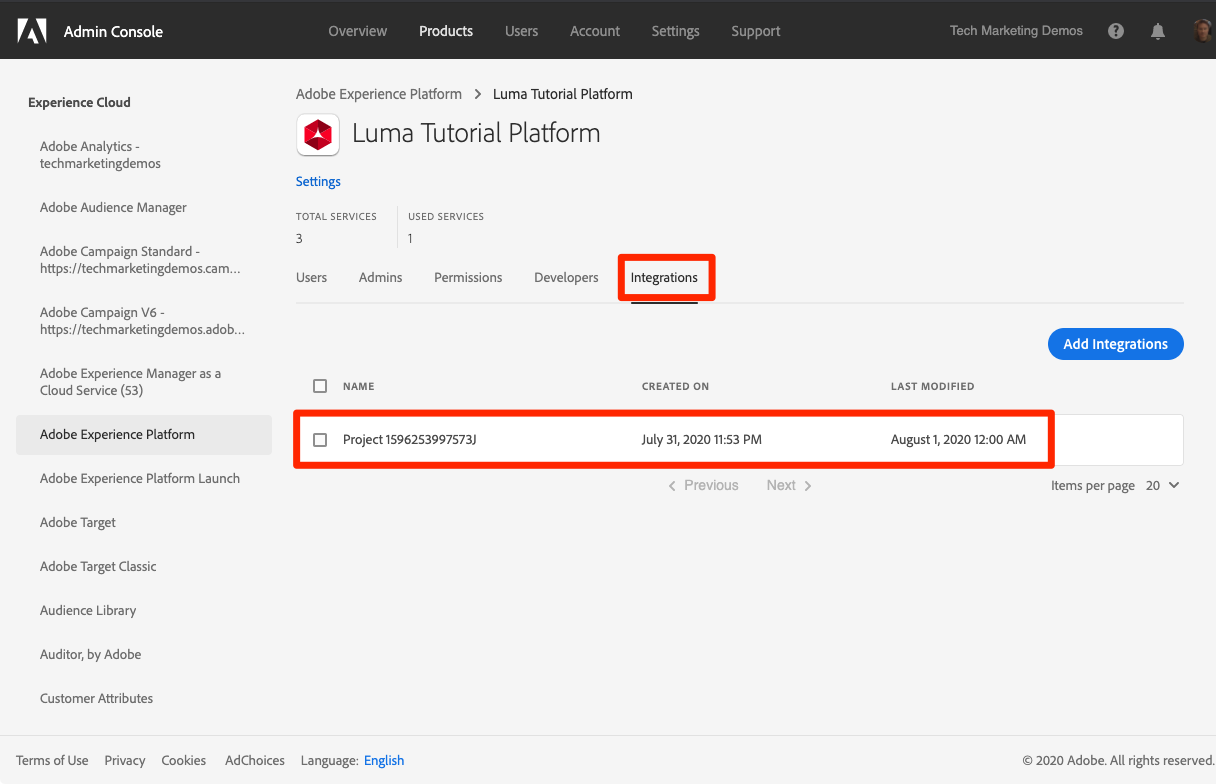
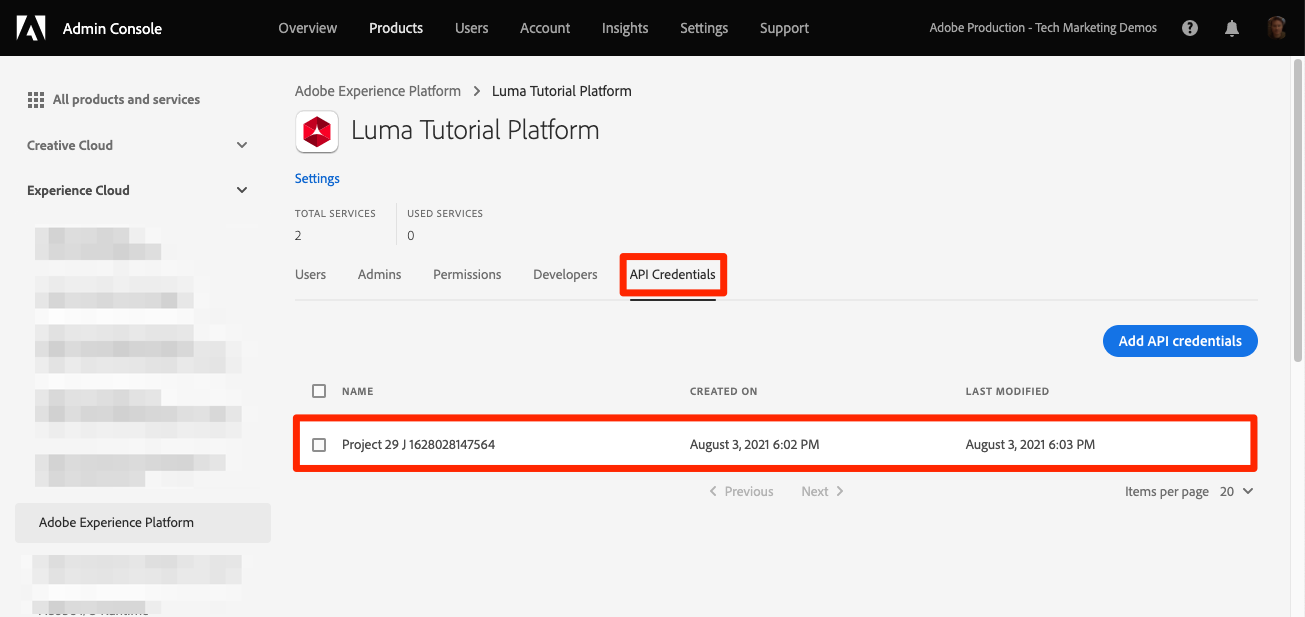
Updates

diff --git a/help/tutorial-data-architect-and-engineer/overview.md b/help/tutorial-data-architect-and-engineer/overview.md
@@ -27,7 +27,7 @@ Topics include:
 * Setting up a Developer Console project and using the Platform API
 * Data management, including creating schemas, datasets, identities, merge policies, and data governance
 * Data ingestion using batch and streaming modes
-* Capturing web data with Adobe Experience Platform Launch and the Web SDK
+* Capturing web data with Adobe Experience Platform Web SDK
 * Combining data sources into Real-time Customer Profiles via identity stitching
 * Using Query Service to validate data and extract data
 * Building segments
@@ -39,14 +39,14 @@ Adobe Experience Platform is a technical platform designed to help you achieve m
 ## Pre-requisites
 
 * You have completed the [Introduction to Adobe Experience Platform course](https://experienceleague.adobe.com/?recommended=ExperiencePlatform-U-1-2020.1) on Experience League and are familiar with Platform capabilities
-* You have access to an account provisioned with Adobe Experience Platform and Adobe Experience Platform Launch.  
+* You have access to an account provisioned with Adobe Experience Platform and Adobe Experience Platform Data Collection (formerly Launch).  
 * You are a System Administrator of that account or can have one complete several tasks in the [Configure Permissions](configure-permissions.md) lesson.
 
 ## Using this tutorial
 
 This tutorial combines tasks for both Data Engineers and Data Architects. Since it's an introductory-level tutorial, you should be able to complete the tasks for both roles. In each lesson, I call out the primary audience&mdash;Data Architects, Data Engineers, or both roles. Because many of the lessons build on what was implemented in earlier lessons, you should move through the lessons in order. I will call out which lessons can be skipped. If you want to, you could also tag team the tutorial with a colleague in the other role.
 
-Try to stick to the names assigned to various elements in the tutorial, as they are constantly referred to by these names. However, there are a few high-level containers that you may want to customize the names in case there are multiple people at your organization taking this tutorial. For example, you may want to name the Product Profile "Luma Tutorial Platform - Fred Bean" instead of just "Luma Tutorial Platform."
+As you create various Platform elements during this tutorial, try to stick to the names I recommend as much as possible. However, there are a few high-level element names that you may want to customize in case there are multiple people at your organization taking this tutorial simultaneously. For example, you may want to name the Platform sandbox "Luma Tutorial Platform - Fred Bean" instead of just "Luma Tutorial Platform."
 
 If you get stuck, try re-reading the instructions first, and then use the ![Log an issue](https://experienceleague.adobe.com/assets/img/feedback.svg) link on the sidebar of each page to contact me. 
 
@@ -54,11 +54,11 @@ If you get stuck, try re-reading the instructions first, and then use the ![Log 
 
 ### Sandbox environments
 
-In the tutorial, you will create a sandbox environment and use it to complete the exercises. The sandbox environment makes it safe for you to complete the exercises and experiment without being concerned about compromising your production Experience Platform environment.
+In the tutorial, you will create a sandbox environment and use it to complete the exercises. The sandbox environment makes it safe for you to complete the exercises and experiment without being concerned about compromising your production data.
 
 ### API
 
-Platform is built API-first. While interface workflows exist for all major Platform tasks and will be used in most exercises, this tutorial contains some API-oriented exercises. I will guide you through the basic project setup in the Adobe Developer Console and provide you with [!DNL Postman] environments and collections to get started. After completing the tutorial, you may find it valuable to be familiar with the Platform API and use it in your own deployment.
+Platform is built API-first. While interface workflows exist for all major Platform workflows and will be used primarily, the tutorial contains some API-oriented exercises. I will guide you through the basic project setup in the Adobe Developer Console and provide you with [!DNL Postman] environments and collections to get started with the Platform API. After completing the tutorial, you may find it valuable to be familiar with the Platform API and use it in your own deployment.
 
 ### Third-party technologies
 

diff --git a/help/tutorial-data-architect-and-engineer/configure-permissions.md b/help/tutorial-data-architect-and-engineer/configure-permissions.md
@@ -55,12 +55,12 @@ To create the product profile:
 1. Select **[!UICONTROL Adobe Experience Platform]** on the left navigation (you may need to expand the **[!UICONTROL Experience Cloud]** section)
 1. You may have several profiles in your Experience Platform instance already. Select the **[!UICONTROL New Profile]** button to add another
     ![Select Add New Profile](assets/adminconsole-newProfile.png)
-1. Name the profile `Luma Tutorial Platform` (add the tutorial taker's name to the end, if multiple people from your company are taking this tutorial) and select the **[!UICONTROL Next]** button
+1. Name the profile `Luma Tutorial Platform` (add the tutorial participant's name to the end, if multiple people from your company are taking this tutorial) and select the **[!UICONTROL Next]** button
     ![Name the profile Luma Tutorial Platform](assets/adminconsole-nameProfile.png)
 1. Depending on the details of your product license, you may or may not see this second **[!UICONTROL Services]** screen. We will not be using any of these services in this tutorial, so uncheck **[!UICONTROL Enable all services]** to *remove* all services and select **[!UICONTROL Save]**.
     ![Disable services](assets/adminconsole-createProfile-services.png)
 
-Now, add the tutorial participant as an admin of the newly created product profile. If _you_ are the tutorial participant, skip ahead to the "Configure Experience Platform product profile" heading:
+Now, add the tutorial participant as an admin of the newly created product profile. If _you_ are the tutorial participant, skip ahead to [Configure Experience Platform product profile](#configure-the-launch-product-profile):
 
 1. Select the `Luma Tutorial Platform` product profile:
    
@@ -122,7 +122,7 @@ In this exercise, you or a System Administrator at your company will create a pr
 To create the product profile:
 
 1. In the [!DNL Adobe Admin Console] go to the Adobe Experience Platform Launch product
-1. Add a new profile named `Luma Tutorial Data Collection` (add the tutorial taker's name to the end, if multiple people from your company are taking this tutorial)
+1. Add a new profile named `Luma Tutorial Data Collection` (add the tutorial participant's name to the end, if multiple people from your company are taking this tutorial)
 1. Turn off the **[!UICONTROL Properties]** > **[!UICONTROL Auto-include]** setting
 1. Don't assign any properties or permissions at this point
 1. Add the tutorial participant as an admin of this profile
@@ -140,15 +140,15 @@ Now you will add the individual permission items to the profile:
 
 1. In the [Adobe Admin Console](https://adminconsole.adobe.com), go to **[!UICONTROL Products]** > **[!UICONTROL Adobe Experience Platform Launch]**
 1. Open the `Luma Tutorial Data Collection` profile
-    ![Open Products > Adobe Experience Platform Launch >Luma Tutorial Data Collection](assets/adminconsole-launch-openProfile.png)
+    ![Open Products > Adobe Experience Platform Launch > Luma Tutorial Data Collection](assets/adminconsole-launch-openProfile.png)
 1. Go to the **[!UICONTROL Permissions]** tab
 1. Open **[!UICONTROL Platforms]**
-1. Select **[!UICONTROL Add all]** so you can create both [!UICONTROL Web] and [!UICONTROL Mobile] properties. (Event forwarding customers have an [!UICONTROL Edge] option, too).
-1. **[!UICONTROL Save]** your changes
+1. Make sure that all of the available platforms are selected (you may see different options based on your license)
+1. **[!UICONTROL Save]** any changes
     ![Add platforms](assets/adminconsole-launch-addPlatforms.png)
 1. Open **[!UICONTROL Properties]**
 1. Make sure the **[!UICONTROL Auto-Include]** toggle is Off so that you don't have access to any properties (we will add one later)
-1. **[!UICONTROL Save]**
+1. **[!UICONTROL Save]** any changes
     ![Remove properties](assets/adminconsole-launch-removeProperties.png)
 1. Open **[!UICONTROL Property Rights]**
 1. Select **[!UICONTROL Add all]** to add all of the property permissions
@@ -169,7 +169,7 @@ Now add yourself as a user to the Launch profile:
     ![Select Add User](assets/adminconsole-launch-addUser.png)
 1. Complete the workflow to add yourself as a user to the product profile
 
-You will not need to add yourself as a Developer for Launch.
+You do not need to add yourself as a Developer for Launch.
 
 ## Additional Resources
 

diff --git a/help/tutorial-data-architect-and-engineer/set-up-developer-console-and-postman.md b/help/tutorial-data-architect-and-engineer/set-up-developer-console-and-postman.md
@@ -23,10 +23,12 @@ Platform is built API-first. While interface options also exist for all major ta
 
 ## Permissions required
 
-In the [Configure Permissions](configure-permissions.md) lesson, you set up all the access controls required to complete this lesson, specifically:
+In the [Configure Permissions](configure-permissions.md) lesson, you set up all the access controls required to complete this lesson.
 
+<!--
 * Permission item Sandboxes > `Luma Tutorial`
 * Developer-role access to the `Luma Tutorial Platform` product profile
+-->
 
 ## Set up Adobe Developer Console
  
@@ -75,7 +77,7 @@ In the [Configure Permissions](configure-permissions.md) lesson, you set up all 
 
     >[!NOTE]
     >
-    >System Administrators of your organization would be able to see the project as an "Integration" in the product profile in the Admin Console
+    >System Administrators of your organization can see the project as an "API Credential" in the product profile in the Admin Console
     >
     >![Adobe Developer Console Project API Config](assets/adobeio-io-integrationInAdminConsole.png)
 
@@ -115,7 +117,7 @@ Now it's time to add the PRIVATE_KEY value to the Postman environment
 1. Extract the downloaded `config.zip` file which was generated in the previous exercise while creating the Developer Console Project. This zip contains two files: 
    * `private.key`
    * `certificate_pub.crt`
-1. Open the `private.key` file in a text editor and copy all the content available.
+1. Open the `private.key` file in a text editor and copy the contents.
 1. In Postman, on the **Manage Environments** > **Edit** modal which is still open from the last exercise, paste copied values in front of **PRIVATE_KEY** in the **Initial Value** and **Current Value** columns.
 1. Select the **Update** button to save your PRIVATE_KEY and the updated environment name.
     ![Private Key pasted into Postman](assets/postman-privateKey.png)
@@ -128,7 +130,7 @@ The first collection works with the Adobe Identity Management Service (IMS) APIs
 
 >[!WARNING]
 >
->As noted in the [Adobe I/O Access Token Generation Postman collection README](https://github.com/adobe/experience-platform-postman-samples/tree/master/apis/ims), the denoted generation methods are suitable for non-production use. Local Signing loads a JavaScript library from a 3rd-party host, and Remote signing sends the private key to an Adobe owned and operated web service. While Adobe does not store this private key, production keys should never be shared with anyone.  
+>As noted in the [Adobe Identity Management Service APIs README](https://github.com/adobe/experience-platform-postman-samples/tree/master/apis/ims), the denoted generation methods are suitable for non-production use. Local Signing loads a JavaScript library from a 3rd-party host, and Remote signing sends the private key to an Adobe owned and operated web service. While Adobe does not store this private key, production keys should never be shared with anyone.  
 
 To generate the tokens:
 

diff --git a/help/tutorial-data-architect-and-engineer/create-a-sandbox.md b/help/tutorial-data-architect-and-engineer/create-a-sandbox.md
@@ -15,7 +15,7 @@ exl-id: a04afada-52a1-4812-8fa2-14be72e68614
 
 In this lesson, you will create a development environment sandbox that you will use for the rest of the tutorial.
 
-Sandboxes provide isolated environments where you can try out functionality without field groupg resources and data with your Production environment.
+Sandboxes provide isolated environments where you can try out functionality without mixing resources and data with your Production environment.
 
 **Data Architects** and **Data Engineers** will need to create sandboxes outside of this tutorial.
 
@@ -24,12 +24,14 @@ Before you begin the exercises, watch this short video to learn more about sandb
 
 ## Permissions required
 
-In the [Configure Permissions](configure-permissions.md) lesson, you set up all the access controls required to complete this lesson, specifically:
+In the [Configure Permissions](configure-permissions.md) lesson, you set up all the access controls required to complete this lesson.
 
+<!--
 * Permission items **[!UICONTROL Sandbox Administration]** > **[!UICONTROL View Sandboxes]** and **[!UICONTROL Manage Sandboxes]**
 * Permission item **[!UICONTROL Sandboxes]** > **[!UICONTROL Prod]**
 * User-role access to the `Luma Tutorial Platform` product profile
 * Admin-level access to the `Luma Tutorial Platform` product profile
+-->
 
 ## Create a Sandbox
 
@@ -40,8 +42,9 @@ Let's create a sandbox:
 1. Select **[!UICONTROL Create sandbox]** on the top right
    ![Select Create sandbox](assets/sandbox-createSandbox.png)
 
-1. Name your sandbox `luma-tutorial` 
-1. Title your tutorial `Luma Tutorial`
+1. Select **[!UICONTROL Development]** as the **[!UICONTROL Type]**
+1. Name your sandbox `luma-tutorial` (consider adding your name to the end)
+1. Title your tutorial `Luma Tutorial` (consider adding your name to the end)
 1. Select the **[!UICONTROL Create]** button
    ![Create your sandbox](assets/sandbox-nameSandbox.png)
    >[!NOTE]
@@ -79,7 +82,7 @@ Once the sandbox is active, you must include it in your product profile in order
     ![Move the Sandbox to the other column](assets/sandbox-addLumaTutorial.png)
 
 1. Go back to the browser tab with Experience Platform
-1. Reload the page and you should now either be in the `Luma Tutorial` sandbox or it should appear in your sandbox dropdown
+1. Reload (or Shift-reload) the page and you should now either be in the `Luma Tutorial` sandbox or it should appear in your sandbox dropdown
 1. Switch to the `Luma Tutorial` sandbox if you aren't already in it
 
    ![Confirm Sandbox](assets/sandbox-confirmDropdown.png)
